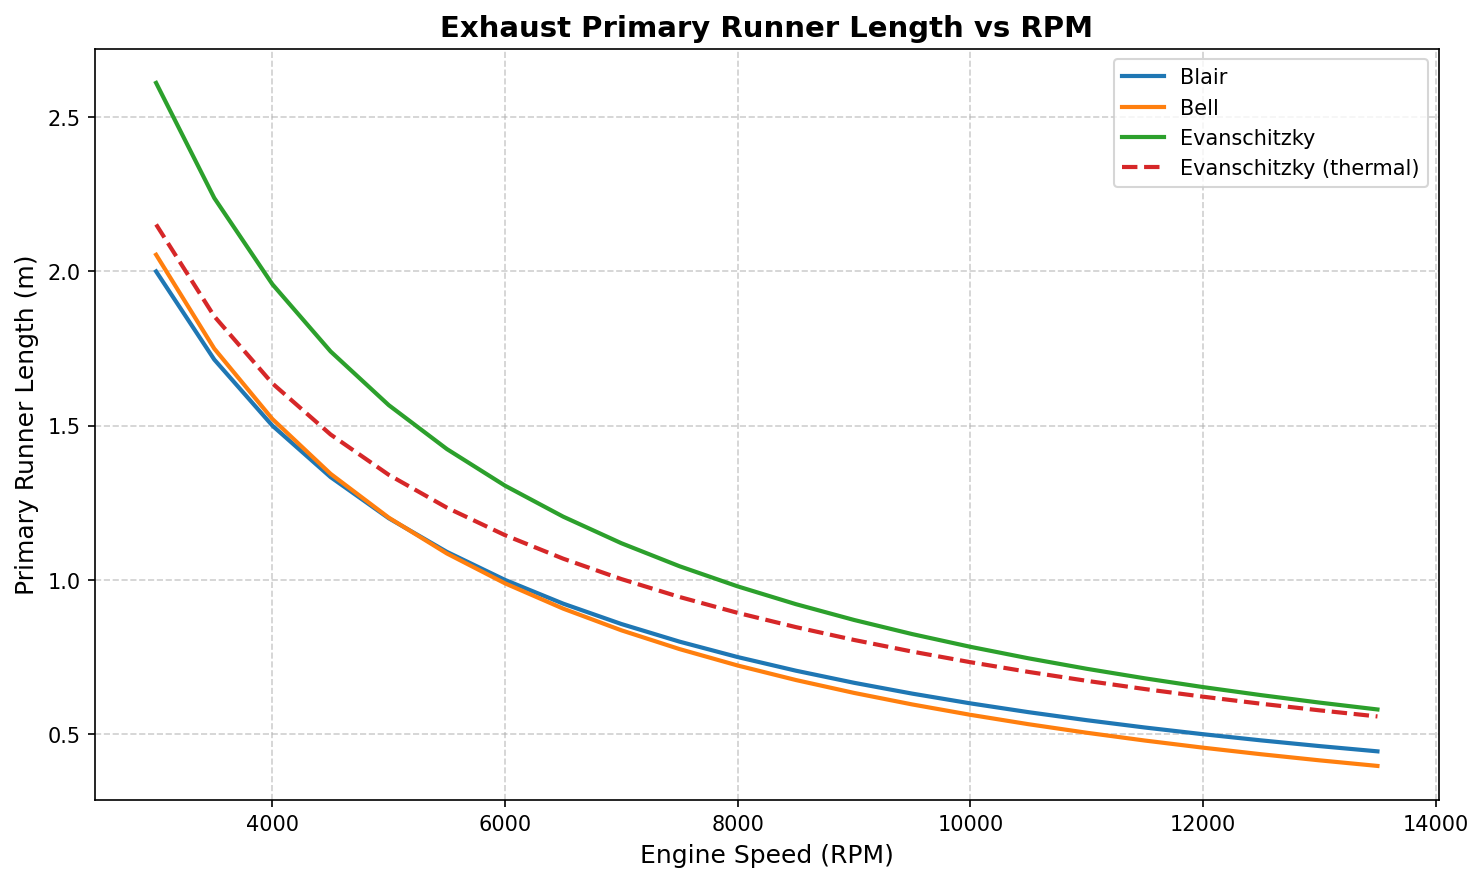
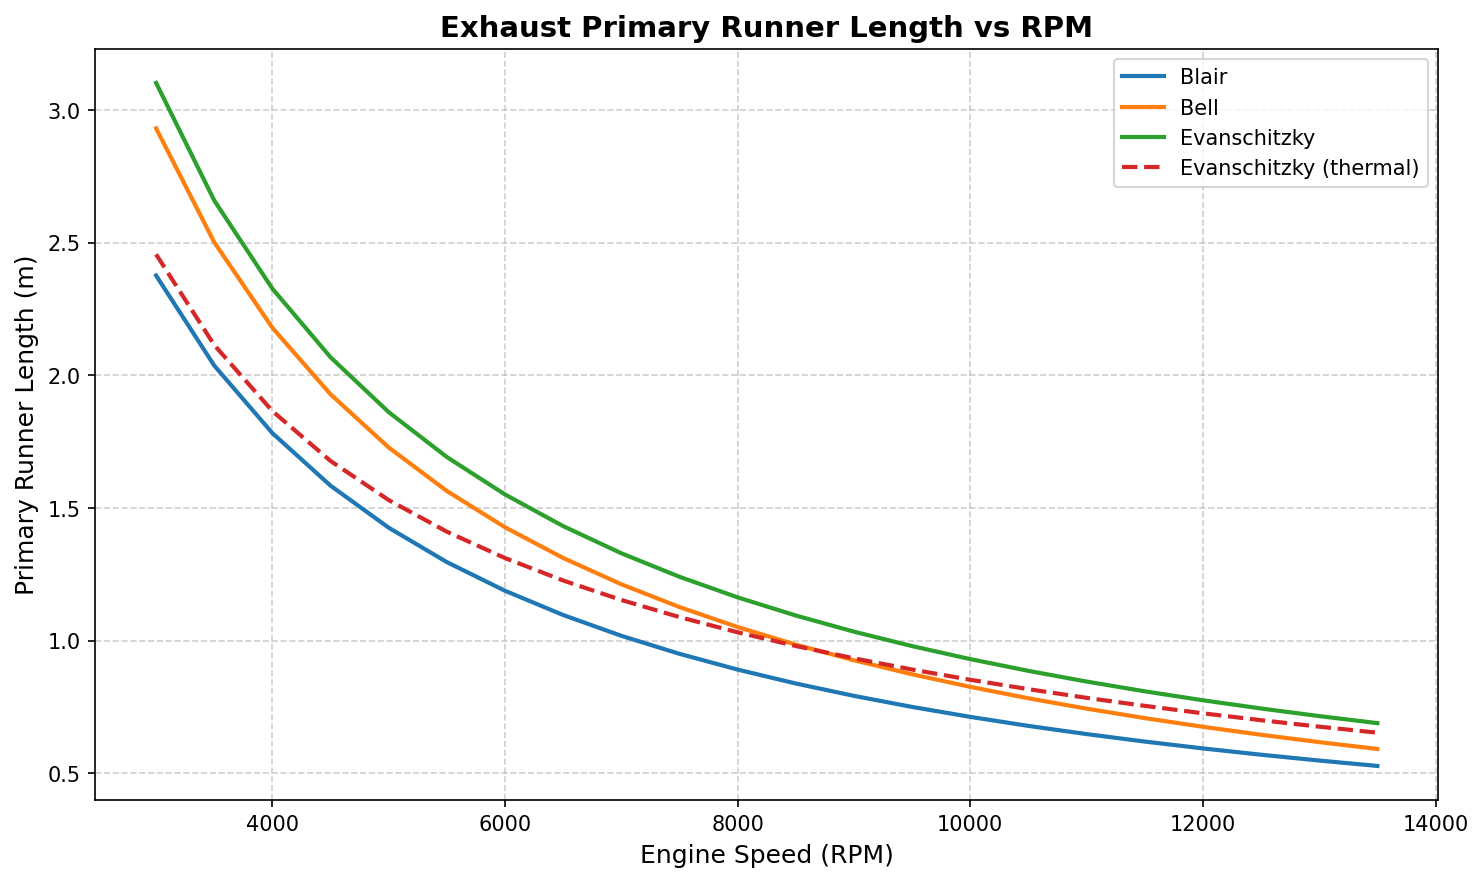
Sensitivity study of parameters

diff --git a/src/sensitivity.py b/src/sensitivity.py
@@ -1,0 +1,127 @@
+"""
+Sensitivity analysis for all exhaust runner length models.
+Computes normalised sensitivy coefficient based on S(p) = (dL/L) / (dp/p) using central difference over an RPM sweep.
+Investigates the effect of a 1% change in a parameter on the percentage change of L.
+"""
+
+import numpy as np
+import pandas as pd
+from typing import Callable
+from library.constants import Constants as const
+
+
+def _central_diff(fn: Callable, p_val: float, h: float = 0.01) -> float:
+    """Return dL/dp * (p/L) via central difference at ±h*p.
+
+    Args:
+        fn (Callable): Formula that is being analysed
+        p_val (float): Parameter value
+        h (float, optional): Percentage change used to perform sensitivity analysis. Defaults to 0.01.
+
+    Returns:
+        float: Returns normalised sensitivity coefficient.
+    """
+    
+    L_high = fn(p_val * (1 + h))
+    L_low = fn(p_val * (1 - h))
+    L_0  = fn(p_val)
+    dLdp = (L_high - L_low) / (2 * h * p_val)
+    return dLdp * (p_val / L_0)
+    
+    
+
+def compute(cfg: dict, RPM_array: np.ndarray) -> pd.DataFrame:
+    """Compute sensitivity coefficients for all methods and parameters across the RPM sweep.
+
+    Returns a DataFrame indexed by RPM with MultiIndex columns: (method, parameter)
+
+    Args:
+        cfg (dict): Configuration of the engine and input paramters
+        RPM_array (np.ndarray): range of RPM for sweep
+
+    Returns:
+        pd.DataFrame: Outputs a dataframe 
+    """
+    
+    from src.models import blair, bell, evanschitzky
+    
+    th = cfg["thermodynamics"]
+    vt = cfg["valve_timing"]
+    es = cfg["engine_specs"]
+    ss = cfg["solver_settings"]
+    geo = cfg["geometry"]
+
+    T0    = th["T0"]
+    T_env = th["T_env"]
+    rho   = th["rho"]
+    EVO   = vt["EVO"]
+    D     = geo["D"]
+    vol   = es["vol"]
+    n_cyl = es["n_cyl"]
+    eps   = ss["epsilon"]
+
+    true_EVO   = 180 - EVO
+    true_IVO   = 360 - vt["IVO"]
+    theta      = true_IVO - true_EVO - vt["wave_delay"]
+    
+    
+    records = []
+    for RPM in RPM_array:
+
+        # --- Blair: L = f(T0)
+        blair_T0 = _central_diff(
+            lambda t: blair.primary_length(RPM, t), T0)
+
+        # --- Bell: L = f(T0, EVO)
+        bell_T0  = _central_diff(
+            lambda t: bell.primary_length(RPM, t, EVO), T0)
+        bell_EVO = _central_diff(
+            lambda e: bell.primary_length(RPM, T0, e), EVO)
+
+        # --- Evanschitzky isothermal: L = f(T0, theta)
+        ev_T0    = _central_diff(
+            lambda t: evanschitzky.primary_length_isothermal(RPM, t, theta), T0)
+        ev_theta = _central_diff(
+            lambda th_: evanschitzky.primary_length_isothermal(RPM, T0, th_), theta)
+        ev_gamma = _central_diff(
+            lambda g: evanschitzky.primary_length_isothermal(RPM, T0, theta, g), const.gamma_ex)
+
+        # --- Evanschitzky thermal: L = f(T0, T_env, theta, D)
+        evt_T0   = _central_diff(
+            lambda t: evanschitzky.primary_length_thermal(RPM, t, T_env, theta, D, vol, n_cyl, rho, eps), T0)
+        evt_Tenv = _central_diff(
+            lambda t: evanschitzky.primary_length_thermal(RPM, T0, t, theta, D, vol, n_cyl, rho, eps), T_env)
+        evt_theta= _central_diff(
+            lambda th_: evanschitzky.primary_length_thermal(RPM, T0, T_env, th_, D, vol, n_cyl, rho, eps), theta)
+        evt_D    = _central_diff(
+            lambda d: evanschitzky.primary_length_thermal(RPM, T0, T_env, theta, d, vol, n_cyl, rho, eps), D)
+        evt_rho    = _central_diff(
+            lambda r: evanschitzky.primary_length_thermal(RPM, T0, T_env, theta, D, vol, n_cyl, r, eps), rho)
+        evt_gamma= _central_diff(
+            lambda g: evanschitzky.primary_length_thermal(RPM, T0, T_env, theta, D, vol, n_cyl, rho, eps, g), const.gamma_ex)
+        evt_h = _central_diff(
+            lambda h_: evanschitzky.primary_length_thermal(RPM, T0, T_env, theta, D, vol, n_cyl, rho, eps, h=h_), const.h)
+        evt_cp = _central_diff(
+            lambda cp: evanschitzky.primary_length_thermal(RPM, T0, T_env, theta, D, vol, n_cyl, rho, eps, cp=cp), const.cp)
+
+        records.append({
+            "RPM": RPM,
+            ("Blair",               "T0"):    blair_T0,
+            ("Bell",                "T0"):    bell_T0,
+            ("Bell",                "EVO"):   bell_EVO,
+            ("Evanschitzky",        "T0"):    ev_T0,
+            ("Evanschitzky",        "theta"): ev_theta,
+            ("Evanschitzky",        "gamma"): ev_gamma,
+            ("Evanschitzky_Thermal","T0"):    evt_T0,
+            ("Evanschitzky_Thermal","T_env"): evt_Tenv,
+            ("Evanschitzky_Thermal","theta"): evt_theta,
+            ("Evanschitzky_Thermal","D"):     evt_D,
+            ("Evanschitzky_Thermal","rho"):   evt_rho,
+            ("Evanschitzky_Thermal","gamma"): evt_gamma,
+            ("Evanschitzky_Thermal","h"):     evt_h,
+            ("Evanschitzky_Thermal","cp"):    evt_cp,
+        })
+
+    df = pd.DataFrame(records).set_index("RPM")
+    df.columns = pd.MultiIndex.from_tuples(df.columns)
+    return df

diff --git a/src/results.py b/src/results.py
@@ -84,3 +84,46 @@ def plot_figure(results: dict) -> plt.Figure:
 
     fig.tight_layout()
     return fig
+
+
+def plot_sensitivity(sens_df: pd.DataFrame, output_dir: str = None) -> list[plt.Figure]:
+    """
+    One heatmap figure per model, saved individually.
+    Returns a list of Figure objects.
+    """
+    import matplotlib.pyplot as plt
+    import matplotlib.colors as mcolors
+    import os
+
+    models = sens_df.columns.get_level_values(0).unique()
+    cmap = "RdBu_r"
+    vmax = sens_df.abs().max().max()
+    norm = mcolors.TwoSlopeNorm(vmin=-vmax, vcenter=0, vmax=vmax)
+
+    figs = []
+    for model in models:
+        sub = sens_df[model].dropna(axis=1, how="all").T  # rows = params, cols = RPM
+
+        fig, ax = plt.subplots(figsize=(12, max(3, len(sub.index) * 0.8)))
+
+        im = ax.imshow(sub.values, aspect="auto", cmap=cmap, norm=norm)
+        ax.set_title(f"Sensitivity — {model}", fontsize=13, fontweight="bold")
+        ax.set_xticks(range(len(sub.columns)))
+        ax.set_xticklabels([int(r) for r in sub.columns], rotation=90, fontsize=8)
+        ax.set_yticks(range(len(sub.index)))
+        ax.set_yticklabels(sub.index, fontsize=11)
+        ax.set_xlabel("RPM", fontsize=10)
+
+        fig.colorbar(im, ax=ax, label="Normalised sensitivity  S = (ΔL/L)/(Δp/p)")
+        fig.tight_layout()
+
+        if output_dir:
+            os.makedirs(output_dir, exist_ok=True)
+            safe_name = model.lower().replace(" ", "_")
+            path = os.path.join(output_dir, f"sensitivity_{safe_name}.png")
+            fig.savefig(path, dpi=150, bbox_inches="tight")
+            print(f"Saved: {path}")
+
+        figs.append(fig)
+
+    return figs

diff --git a/src/models/evanschitzky.py b/src/models/evanschitzky.py
@@ -12,11 +12,11 @@ import numpy as np
 from library.constants import Constants as const
 
 
-def _speed_of_sound(T: float, gamma: float, R: float) -> float:
+def _speed_of_sound(gamma: float, R: float, T: float,) -> float:
     return np.sqrt(gamma * R * T)
 
 
-def primary_length_isothermal(RPM: float, T0: float, theta: float) -> float:
+def primary_length_isothermal(RPM: float, T0: float, theta: float, gamma: float=const.gamma_ex) -> float:
     """
     Isothermal variant — single speed of sound at exhaust port temperature.
 
@@ -28,7 +28,7 @@ def primary_length_isothermal(RPM: float, T0: float, theta: float) -> float:
     Returns:
         Primary pipe length (m)
     """
-    c = _speed_of_sound(T0, const.gamma_ex, const.R_gas)
+    c = _speed_of_sound(gamma, const.R_gas, T0)
     return c * theta / (RPM * 12)
 
 
@@ -42,6 +42,9 @@ def primary_length_thermal(
     n_cyl: int,
     rho: float,
     epsilon: float,
+    gamma: float=const.gamma_ex,
+    h: float = const.h,
+    cp: float = const.cp,
 ) -> float:
     """
     Thermal variant — iterates until pipe length converges.
@@ -57,6 +60,7 @@ def primary_length_thermal(
         n_cyl:   Number of cylinders
         rho:     Air density (kg/m^3)
         epsilon: Convergence tolerance (m)
+        gamma:   Ratio of sepcific heats
 
     Returns:
         Primary pipe length (m)
@@ -66,11 +70,9 @@ def primary_length_thermal(
     L = primary_length_isothermal(RPM, T0, theta)  # physical initial guess
 
     for _ in range(500):  
-        T_end = T_env + (T0 - T_env) * np.exp(
-            -(const.h * np.pi * D * L) / (m_dot * const.cp)
-        )
+        T_end = T_env + (T0 - T_env) * np.exp(-(h * np.pi * D * L) / (m_dot * cp))
         T_avg = (T0 + T_end) / 2
-        L_new = _speed_of_sound(T_avg, const.gamma_ex, const.R_gas) * theta / (RPM * 12)
+        L_new = _speed_of_sound(gamma, const.R_gas, T_avg) * theta / (RPM * 12)
 
         if abs(L_new - L) < epsilon:
             return L_new

diff --git a/main.py b/main.py
@@ -9,12 +9,14 @@ import argparse
 from config.loader import load_config
 from src.optimizer import run
 from src.results import plot, save_csv
+import matplotlib.pyplot as plt
 
 def main():
     parser = argparse.ArgumentParser(description="Exhaust runner length optimizer")
     parser.add_argument("--config", default="config/engine_config.yaml")
     parser.add_argument("--output", default="outputs/")
     parser.add_argument("--no-plot", action="store_true")
+    parser.add_argument("--sensitivity", action="store_true", help="Run and plot sensitivity analysis")
     args = parser.parse_args()
 
     cfg = load_config(args.config)
@@ -23,6 +25,17 @@ def main():
     save_csv(results, args.output)
     if not args.no_plot:
         plot(results, output_dir=args.output)
+    
+    if args.sensitivity:
+        from src.sensitivity import compute as sensitivity_compute
+        from src.results import plot_sensitivity
+        import numpy as np
+        
+        RPM_array = np.arange(cfg["solver_settings"]["min_RPM"], cfg["solver_settings"]["max_RPM"], cfg["solver_settings"]["stepsize_RPM"])
+        sens_df = sensitivity_compute(cfg, RPM_array)
+        plot_sensitivity(sens_df, output_dir=args.output)
+
+        
 
 if __name__ == "__main__":
     main()

diff --git a/README.md b/README.md
@@ -47,6 +47,10 @@ Suppress the plot window (useful on servers):
 python main.py --no-plot
 ```
 
+Run a sensitivity study on all formulas:
+```bash
+python main.py --sensitivity
+```
 ---
 
 ## Configuration